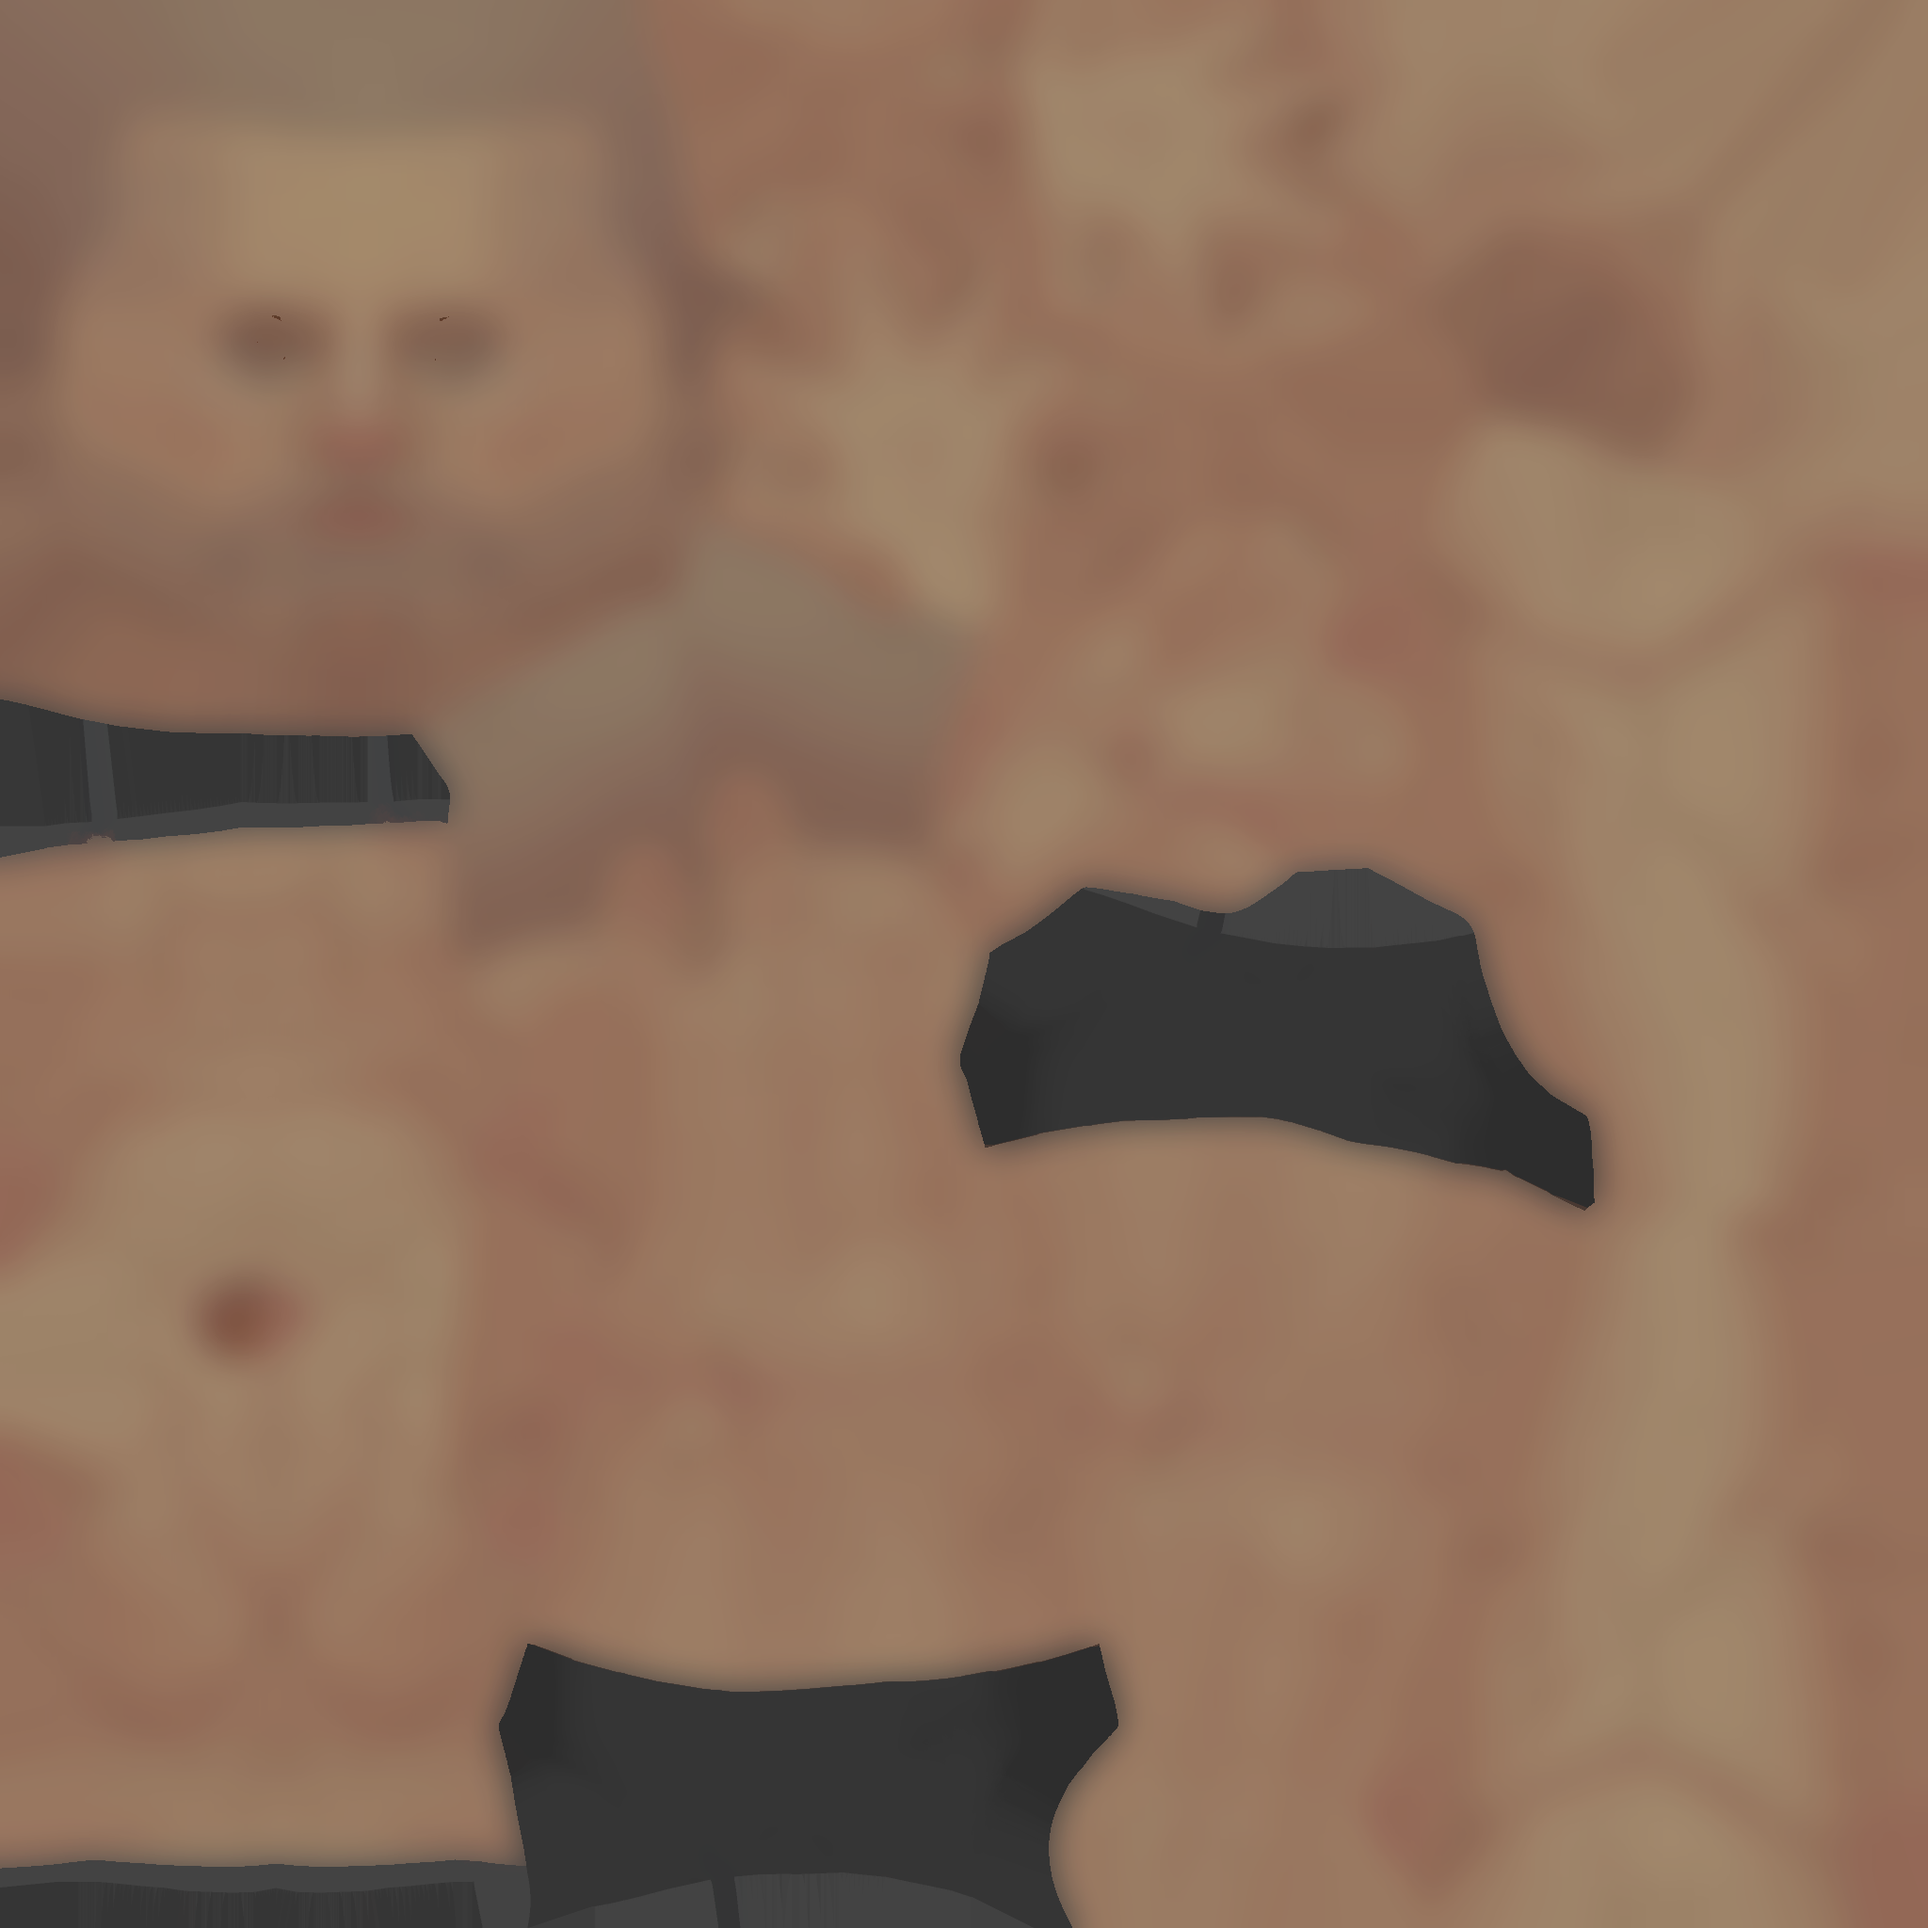
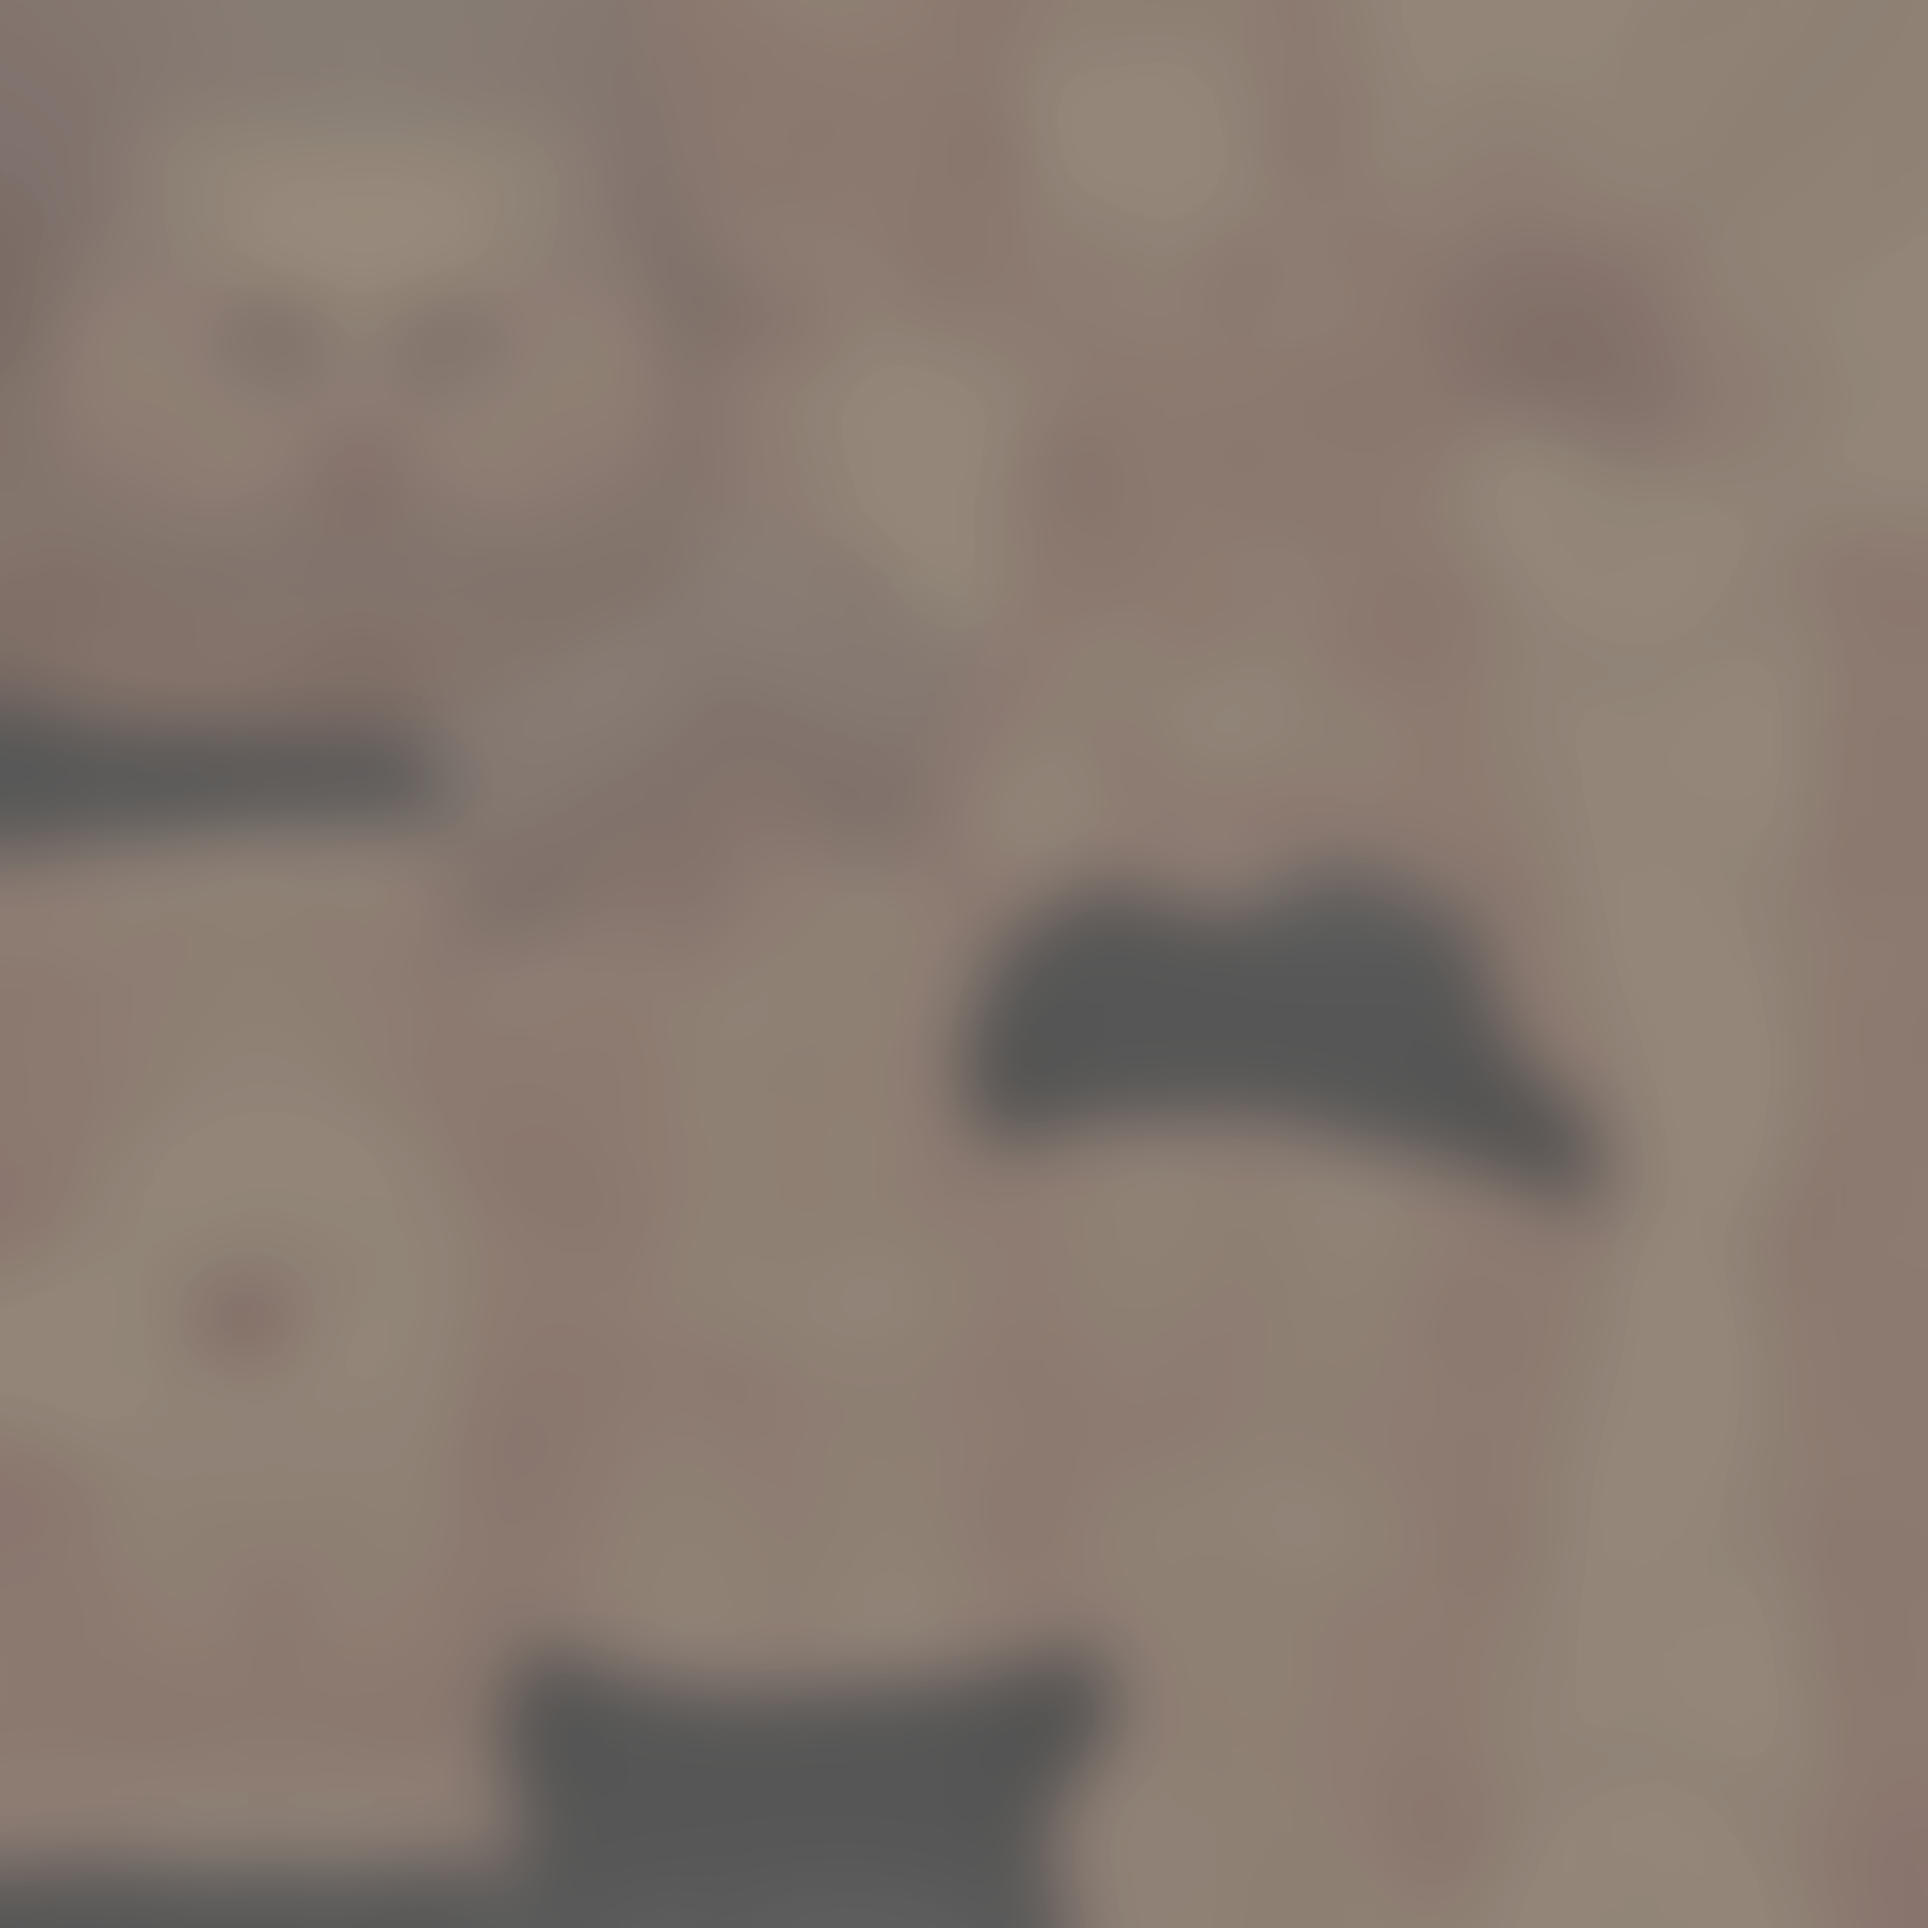
fix: flatten body detail and reduce athletic proportions

diff --git a/src/app-v4.js b/src/app-v4.js
@@ -188,7 +188,7 @@ function renderInfo(){const exercise=EXERCISES[current];ui.list.innerHTML=EXERCI
 function phaseLabel(exercise,position){if(exercise.id==='dive'){if(position<.18)return'Recul contrôlé';if(position<.42)return'Descente continue';if(position<.64)return'Passage vers l’avant';if(position<.84)return'Repoussée';return'Retour continu'}if(exercise.id==='clap'){if(position<.30)return'Descente';if(position<.52)return'Poussée dynamique';if(position<.68)return'Réception';return'Stabilisation'}if(position<.12)return'Position initiale';if(position<.42)return'Mise en mouvement';if(position<.72)return'Phase active';return'Retour contrôlé'}
 function diagnostics(){const center=currentModelCenter(new THREE.Vector3()),jointNames=['upperarm_l','hand_l','upperarm_r','hand_r','calf_l','foot_l','ball_l','calf_r','foot_r','ball_r'],joints={};for(const name of jointNames)joints[name]=wp(name).toArray();return{ready,exercise:EXERCISES[current].id,supportMode,camera:{panEnabled:controls.enablePan,target:controls.target.toArray(),center:center.toArray(),distanceToCenter:controls.target.distanceTo(center),distance:camera.position.distanceTo(controls.target)},joints}}
 window.__APP_DIAGNOSTICS__=diagnostics;
-function loadModel(){const neutralTexture=new THREE.TextureLoader().load('assets/quaternius/fullbody/T_Neutral_Male.png');neutralTexture.flipY=false;neutralTexture.colorSpace=THREE.SRGBColorSpace;new GLTFLoader().load('assets/quaternius/fullbody/Superhero_Male_FullBody.gltf',gltf=>{model=gltf.scene;model.traverse(object=>{if(object.isMesh){object.castShadow=true;object.receiveShadow=true;object.frustumCulled=false;if(object.material?.name?.toLowerCase().includes('superhero')){object.material=object.material.clone();object.material.map=neutralTexture;object.material.normalMap=null;object.material.roughness=.92;object.material.metalness=0;object.material.needsUpdate=true}}if(object.isBone)bones[object.name]=object});pivot.add(model);let box=new THREE.Box3().setFromObject(model),height=box.max.y-box.min.y;const scale=2/height;model.scale.set(scale*.84,scale,scale*.90);model.updateMatrixWorld(true);box.setFromObject(model);model.position.x-=(box.min.x+box.max.x)/2;model.position.y-=box.min.y;model.position.z-=(box.min.z+box.max.z)/2;model.updateMatrixWorld(true);for(const [name,bone] of Object.entries(bones))rest.set(name,{position:bone.position.clone(),quaternion:bone.quaternion.clone(),scale:bone.scale.clone()});ready=true;$('#loader').remove();document.documentElement.dataset.ready='true';pose(EXERCISES[current],t);frameCurrent()},undefined,error=>{$('#loader').textContent='Échec du chargement du modèle neutre';console.error(error)})}
+function loadModel(){const neutralTexture=new THREE.TextureLoader().load('assets/quaternius/fullbody/T_Neutral_Male.png');neutralTexture.flipY=false;neutralTexture.colorSpace=THREE.SRGBColorSpace;new GLTFLoader().load('assets/quaternius/fullbody/Superhero_Male_FullBody.gltf',gltf=>{model=gltf.scene;model.traverse(object=>{if(object.isMesh){object.castShadow=true;object.receiveShadow=true;object.frustumCulled=false;if(object.material?.name?.toLowerCase().includes('superhero')){object.material=object.material.clone();object.material.map=neutralTexture;object.material.normalMap=null;object.material.roughness=.92;object.material.metalness=0;object.material.needsUpdate=true}}if(object.isBone)bones[object.name]=object});pivot.add(model);let box=new THREE.Box3().setFromObject(model),height=box.max.y-box.min.y;const scale=2/height;model.scale.set(scale*.70,scale,scale*.80);model.updateMatrixWorld(true);box.setFromObject(model);model.position.x-=(box.min.x+box.max.x)/2;model.position.y-=box.min.y;model.position.z-=(box.min.z+box.max.z)/2;model.updateMatrixWorld(true);for(const [name,bone] of Object.entries(bones))rest.set(name,{position:bone.position.clone(),quaternion:bone.quaternion.clone(),scale:bone.scale.clone()});ready=true;$('#loader').remove();document.documentElement.dataset.ready='true';pose(EXERCISES[current],t);frameCurrent()},undefined,error=>{$('#loader').textContent='Échec du chargement du modèle neutre';console.error(error)})}
 function resize(){const rect=host.getBoundingClientRect();renderer.setSize(rect.width,rect.height,false);camera.aspect=rect.width/rect.height;camera.updateProjectionMatrix()}new ResizeObserver(resize).observe(host);resize();
 ui.play.onclick=()=>{playing=!playing;ui.play.textContent=playing?'Pause':'Lecture'};ui.timeline.oninput=()=>{t=Number(ui.timeline.value)/1000;playing=false;ui.play.textContent='Lecture'};ui.muscles.onclick=()=>{showMuscles=!showMuscles;ui.muscles.classList.toggle('active',showMuscles)};ui.sequence.onclick=()=>{autoSequence=!autoSequence;sequencePosition=Math.max(0,PRUDENT_SEQUENCE.indexOf(current));if(autoSequence&&EXERCISES[current].advanced){sequencePosition=0;current=PRUDENT_SEQUENCE[0];t=0;renderInfo()}ui.sequence.textContent=autoSequence?'Arrêter':'Séquence prudente'};ui.supportButtons.forEach(button=>button.onclick=()=>{supportMode=button.dataset.support;ui.supportButtons.forEach(item=>item.classList.toggle('active',item===button));ui.supportNote.textContent=supportMode==='knees'?'Charge réduite : progression avant la variante sur les pieds.':'Charge supérieure : uniquement si le contrôle reste strict.'});
 document.querySelectorAll('[data-view]').forEach(button=>button.onclick=()=>{const view=button.dataset.view,center=currentModelCenter(new THREE.Vector3());controls.target.copy(center);if(view==='left')camera.position.copy(center).add(V(4.2,1.55,0));if(view==='front')camera.position.copy(center).add(V(0,1.65,-4.2));if(view==='back')camera.position.copy(center).add(V(0,1.65,4.2));controls.update()});$('#resetView').onclick=frameCurrent;
